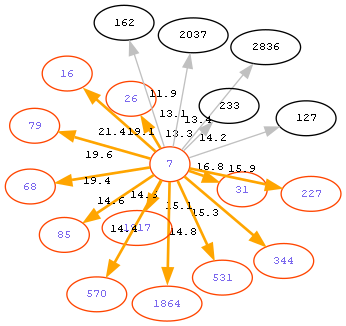
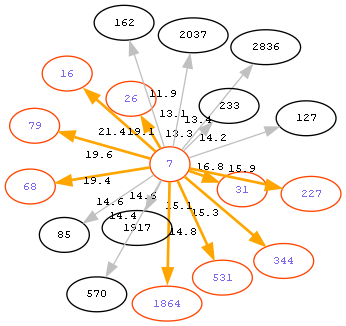
Added "Learn more about the program" section

diff --git a/static/css/styles.css b/static/css/styles.css
@@ -55,6 +55,14 @@ button {
   filter: drop-shadow(0 0.3rem 1mm rgb(165, 165, 165));
 }
 
+.center {
+  text-align: center;
+}
+
+.justify {
+  text-align: justify;
+}
+
 h1 {
   font-size: 3.5rem;
 }
@@ -69,6 +77,11 @@ p {
   color: var(--text_color_secondary);
 }
 
+a {
+  text-decoration: underline;
+  font-weight: bold;
+  color: inherit;
+}
 
 header {
   position: fixed;
@@ -85,7 +98,6 @@ header {
   text-align:center;
 }
 
-/*Container with zero padding */
 .header-box {
   display: flex;
   padding: 20px 50px;
@@ -127,34 +139,6 @@ header {
   height: 75px;
 }
 
-.autocomplete {
-  /*the container must be positioned relative:*/
-  position: relative;
-  display: inline-block;
-}
-
-.autocomplete-items {
-  position: absolute;
-  border: 1px solid var(--inactive_color);
-  border-radius: 1rem;
-  background-color: var(--secondary_color);
-  z-index: 99;
-  max-width: 100%;
-  min-width: 465px;
-}
-.autocomplete-items div {
-  padding: 10px;
-  cursor: pointer;
-
-
-}
-.autocomplete-items div:hover {
-  /*when hovering an item:*/
-  background-color: var(--inactive_color);
-  border-radius: 1rem;
-}
-
-
 /*================================================
 1. What do you want to watch?
 ================================================*/
@@ -185,6 +169,10 @@ header {
   flex: 1;
 }
 
+.about div {
+  flex: 1;
+}
+
 .left, .right {
   padding: 0 2rem;
 }
@@ -195,6 +183,7 @@ header {
   min-width: 465px;
   border-radius: 0.7rem;
 }
+
 
 /*================================================
 1.1. Type the name of a movie to take as a reference
@@ -215,6 +204,31 @@ header {
   border: 0;
   border-radius: 1.6rem;
   margin-bottom: 0;
+}
+
+.autocomplete {
+  position: relative;
+  display: inline-block;
+}
+
+.autocomplete-items {
+  position: absolute;
+  border: 1px solid var(--inactive_color);
+  border-radius: 1rem;
+  background-color: var(--secondary_color);
+  z-index: 99;
+  max-width: 100%;
+  min-width: 465px;
+}
+
+.autocomplete-items div {
+  padding: 10px;
+  cursor: pointer;
+}
+
+.autocomplete-items div:hover {
+  background-color: var(--inactive_color);
+  border-radius: 1rem;
 }
 
 /*================================================
@@ -282,10 +296,6 @@ label {
 /*================================================
 1.4. Submit
 ================================================*/
-
-.center {
-  text-align: center;
-}
 
 .recommend {
   cursor: pointer;
@@ -361,24 +371,28 @@ div .desc {
   width: 19.99999%;
 }
 
-@media only screen and (max-width: 700px) {
-  .responsive {
-    text-align: center;
-    width: 49.99999%;
-    margin: 6px 0;
-  }
+/*================================================
+3. About
+================================================*/
+
+.about {
+  display: flex;
+  justify-content: center;
+  align-items: center;
+
+  padding: 0 300px;
+  padding-top: 50px;
+  overflow: hidden;
 }
 
-@media only screen and (max-width: 500px) {
-  .responsive {
-    text-align: center;
-    width: 100%;
-  }
+.graph {
+  max-width: 350px;
+  width: 100%;
+  height: auto;
 }
-
 
 /*================================================
-3. Media queries
+4. Media queries
 ================================================*/
 
 @media screen and (max-width: 1000px) {
@@ -444,5 +458,24 @@ div .desc {
 
   .hero .right {
     display: none;
+  }
+
+  .about {
+    padding: 10px 75px;
+  }
+}
+
+@media only screen and (max-width: 700px) {
+  .responsive {
+    text-align: center;
+    width: 49.99999%;
+    margin: 6px 0;
+  }
+}
+
+@media only screen and (max-width: 500px) {
+  .responsive {
+    text-align: center;
+    width: 100%;
   }
 }

diff --git a/templates/algorithm.html b/templates/algorithm.html
@@ -1,0 +1,50 @@
+{% extends 'base.html' %}
+{% block head %}
+<title>Recommendation System</title>
+<link href='https://fonts.googleapis.com/css?family=Inter' rel='stylesheet'>
+{% endblock %}
+
+{% block body %}
+
+<header>
+    <div class="header-box">
+        <div class="logo">
+            <img src="{{url_for('static', filename='images/logo.png')}}" alt="Logo">
+            <h3><a href="/">Movie Recommendation System</a></h3>
+        </div>
+    </div>
+</header>
+
+<div class="hero">
+    <h1 class="separated">Learn more about the project</h1>
+</div>
+
+
+<div class="about ">
+    <div class="justify">
+        <h2 class="center">What is the program about?</h2>
+        <p class="separated lighter">The proposal consists on simulating a movie recommendation platform, in which users can filter movies based on parameters.</p>
+    </div>
+</div>
+
+<div class="about">
+    <div class="justify">
+        <h2 class="center">How does the algorithm work?</h2>
+        <p class=" separated lighter">
+           The information provided by <a href="https://www.kaggle.com/datasets/tmdb/tmdb-movie-metadata">the dataset</a> is stored in an undirected graph data structure, where nodes are represented by movie IDs, and edges correspond to the relationships between movies.
+           The edges' weights are determined by user-selected parameters (Such as genre, studio and overview), an idea that emerged from researching about <a href="http://users.ics.forth.gr/~potamias/mlnia/paper_6.pdf">content-based filtering</a>. This technique is employed to classify content as relevant or not relevant to users, providing personalized recommendations.
+        </p>
+    </div>
+</div>
+
+<div class="about">
+    <div class="justify">
+    <h2 class="center">Visualizing the Graph</h2>
+    <p class="separated lighter">Below you can find a visual representation of the graph associated with the input you provided in the previous steps, the ID of the movie you selected is located at the middle, and the recommendations shown are highlighted by a yellow border.</p>
+    <div class="center">
+        <img class="separated graph" src="{{url_for('static', filename='images/graph.png')}}" alt="graph">
+    </div>
+    </div>
+</div>
+
+{% endblock %}

diff --git a/templates/output.html b/templates/output.html
@@ -34,5 +34,13 @@
     {% endfor %}      
 </div>
 
+<div class="center">
+    <div class="separated">
+        <a href="algorithm">
+            <button class="recommend shadow float-on-hover lighter" >Learn more about the project</button>
+        </a>
+    </div>
+</div>
+
 
 {% endblock %}

diff --git a/templates/index.html b/templates/index.html
@@ -14,7 +14,7 @@
             <h3><a href="/">Movie Recommendation System</a></h3>
         </div>
     </div>
-  </header>
+</header>
 
 <div class="hero">
     <section class="left">

diff --git a/app.py b/app.py
@@ -54,21 +54,21 @@ def output():
     movie_minus = movie_minus.lower()
     result = DLS.filter_selector(movie_minus, formData['movieSelectedFilter'], formData['movieRecommendationAmount'], movie_dataset_minusculas)
     movie_id_list = []
-
     if result[0] != "Error, movie not found in the dataset":
         for movie_name in result:
             movie_id_list.append(posters[movie_name])
         poster = get_poster(movie_id_list)
-
     else:
         poster = ["https://pbs.twimg.com/media/FyOunJ_WYAAXBwX?format=jpg&name=small"]
 
-    print(poster)
-
     return render_template('output.html', movieRefName = formData['movieReference'], 
-                           movieFilter = formData['movieSelectedFilter'],
-                           movieRecAmount = formData['movieRecommendationAmount'],
-                           recommendation_list = result, poster_list = poster)
+                            movieFilter = formData['movieSelectedFilter'],
+                            movieRecAmount = formData['movieRecommendationAmount'],
+                            recommendation_list = result, poster_list = poster)
+
+@app.route('/algorithm')
+def algorithm():
+    return render_template('algorithm.html')
 
 if __name__ == '__main__':
     app.run(debug=True)

diff --git a/DLS.py b/DLS.py
@@ -127,6 +127,8 @@ def filter_selector(movieReference, movieSelectedFilter, movieRecommendationAmou
   
 
 def drawGraph(L, filename="static/images/graph", quantity=None):
+   return
+"""
     if os.path.exists(filename):
        os.remove(filename)
     
@@ -154,7 +156,7 @@ def drawGraph(L, filename="static/images/graph", quantity=None):
 
     os.environ["PATH"] += os.pathsep + 'C:\Program Files\Graphviz\bin'  # Reemplaza la ruta con la ubicación real de Graphviz en tu sistema
     return graph.render(filename, format= "png")
-
+"""
     
 def createSubgraph(graph, source_node, path=[]):
     subgraph = []
